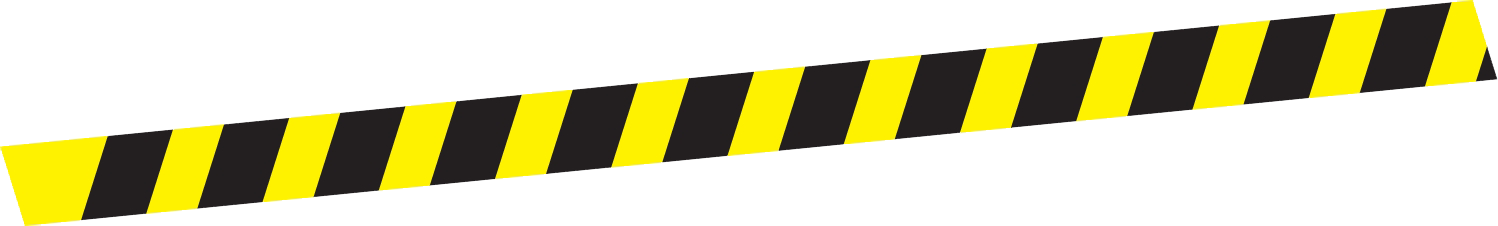
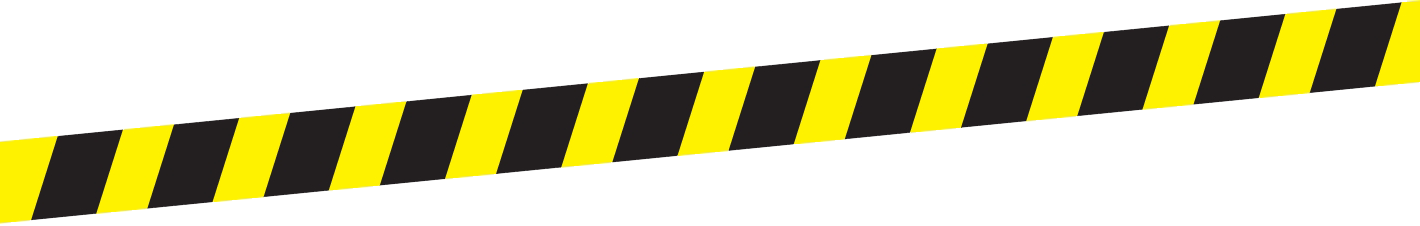
update caution tape and css

Changed region(s): [[0.0, 0.2478, 0.6197, 1.0], [0.6507, 0.0, 1.0, 0.5575], [0.6507, 0.5575, 0.6817, 0.5885]]

diff --git a/style.css b/style.css
@@ -242,16 +242,13 @@ footer p {
 
 .caution-image{
 
-  width: 80%;
   background-image:url("images/Transpearent\ Cipher\ 3.jpg");
   background-size: cover;
   
-  
 }
 
-.caution-image img{
-
-  width: 100;
-  
-
+.caution-image img {
+  width: 100%;
+  object-fit: cover;
 }
+

diff --git a/index.html b/index.html
@@ -43,7 +43,7 @@
 
 <div class="caution-image">
   
-  <img src="images/CautionTape.png" />
+  <img src="images/caution-tape.png" />
 </div>
 
 <!--cipher -->
